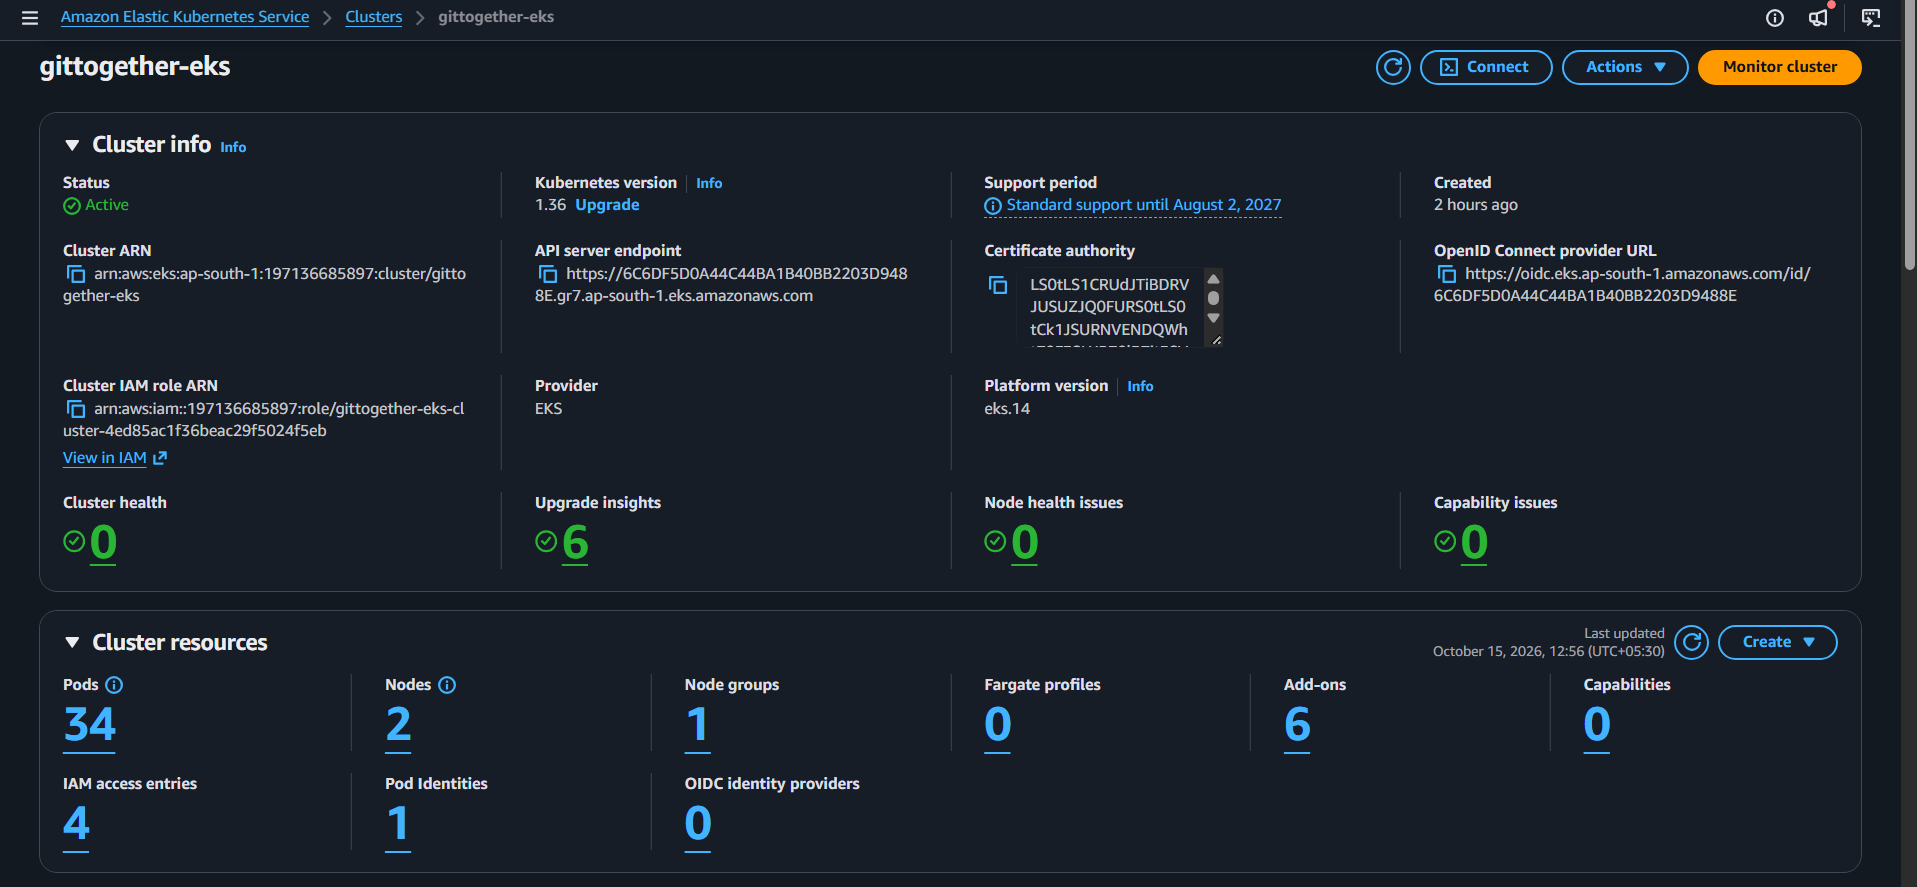
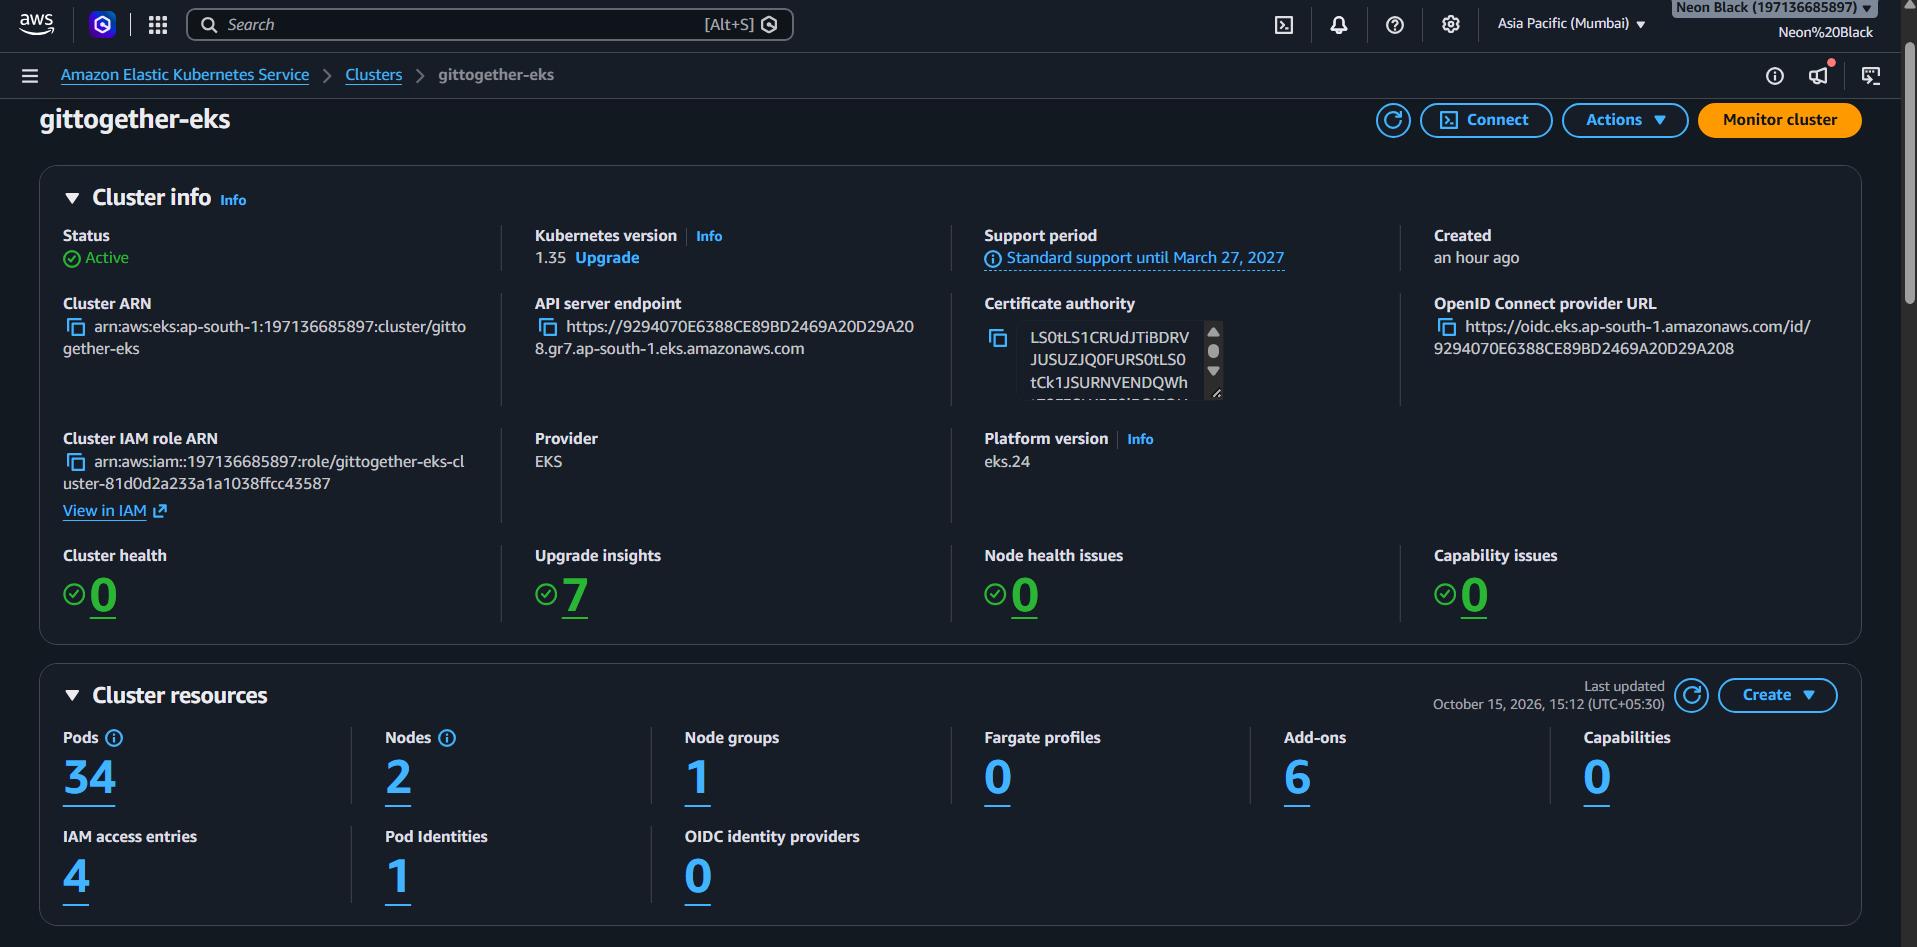
move EKS to K8s 1.35 and add ArgoCD, apply and destroy ss

diff --git a/terraform/README.md b/terraform/README.md
@@ -5,7 +5,7 @@ Provisions, in `ap-south-1` (Mumbai):
 | Resource | Details |
 |---|---|
 | VPC | `10.20.0.0/16` across two AZs: 2 public subnets (load balancer, NAT), 2 private subnets (worker nodes), internet gateway, 1 NAT gateway |
-| EKS cluster | Kubernetes 1.36, pinned to **standard** support, Secrets encrypted with KMS |
+| EKS cluster | Kubernetes 1.35, pinned to **standard** support, Secrets encrypted with KMS |
 | Managed node group | 2 × `m7i-flex.large` on-demand (min 2, max 2) in private subnets, Amazon Linux 2023 |
 | EKS add-ons | vpc-cni, kube-proxy, coredns, pod-identity-agent, aws-ebs-csi-driver, metrics-server |
 
